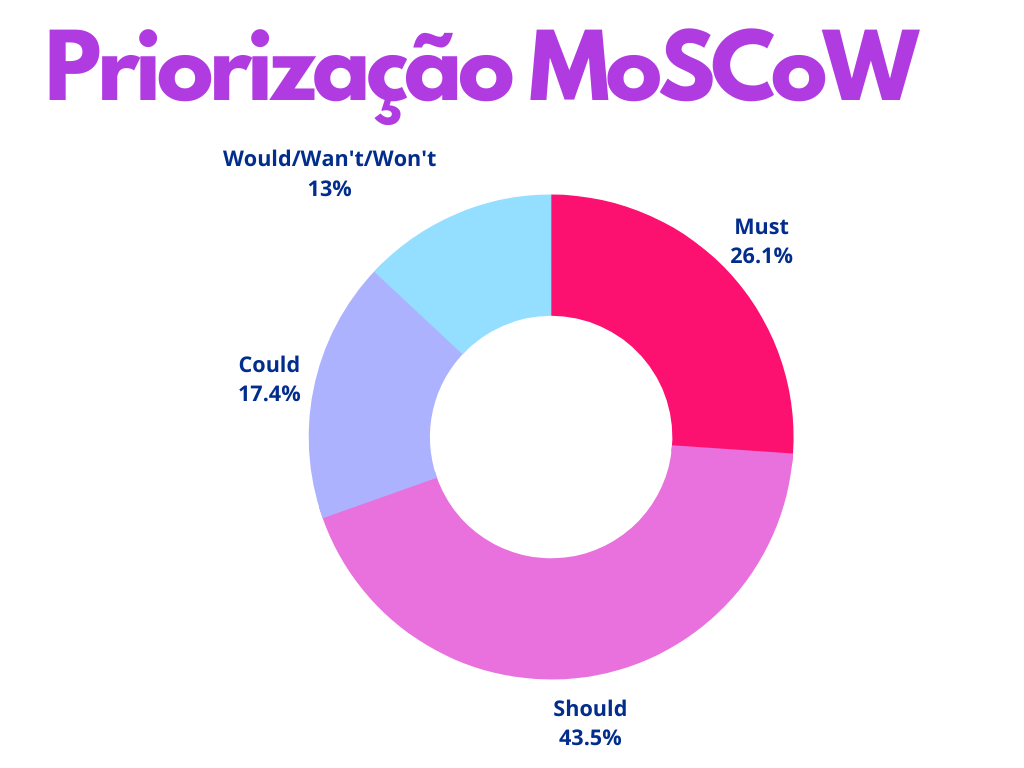
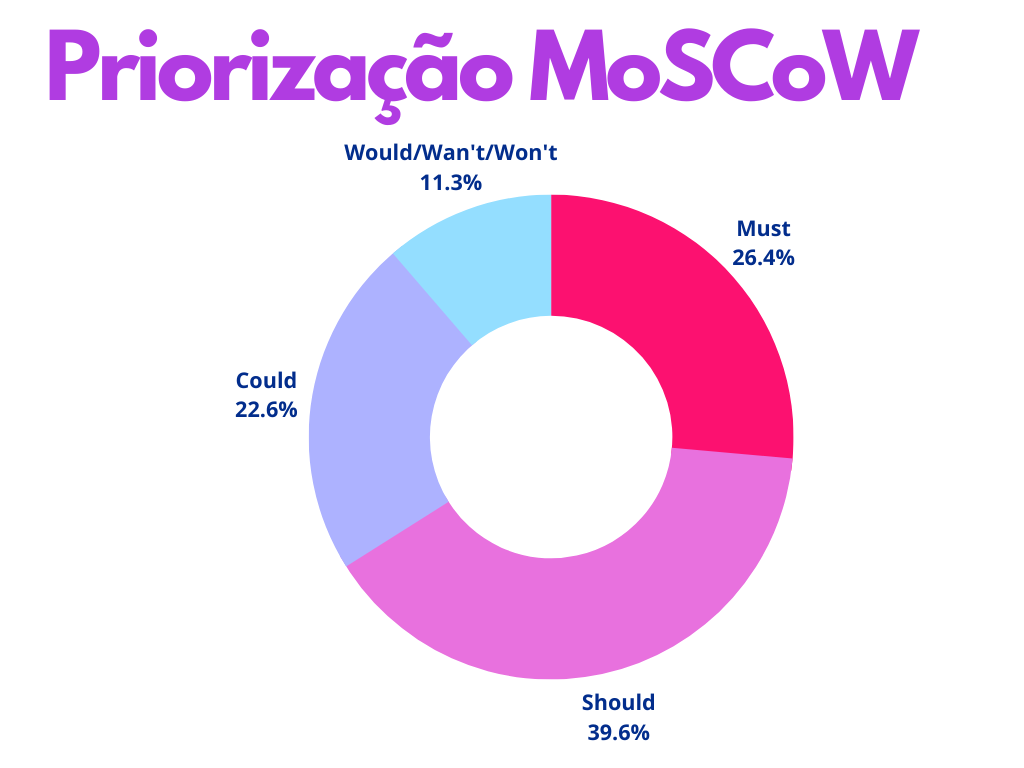
Adicionado priorização MoSCoW do Questionário e FURPS+

diff --git a/docs/pages/Base/ProjetoNaoOrientado/Requisistos/Elicitacao/FURPS+.md b/docs/pages/Base/ProjetoNaoOrientado/Requisistos/Elicitacao/FURPS+.md
@@ -23,29 +23,36 @@
 
 ## 3. Resultados
 
+**Legenda**
+
+- QT: Questionário
+- RF: Requisito Funcional
+- RNF: Requisito não Funcional
+- FU: FURPS+
+
 <center>
 
-| ID     |                                                                    Requisito                                                                     | MosCoW |
-| :----- | :----------------------------------------------------------------------------------------------------------------------------------------------: | :----: |
-| RNF 01 |                                                 O aplicativo não pode demorar mais de 2s para abrir ou Logar.                                    | Should |
-| RNF 02 |                                                    O aplicativo não pode ficar indisponível.                                                     |  Must  |
-| RNF 03 |                                   Os usuários devem conseguir encontrar a funcionalidade desejada rapidamente                                    | Should |
-| RNF 04 |                                                O aplicativo deve proteger os dados dos usuários.                                                 |  Must  |
-| RNF 05 |                                                O aplicativo deve apresentar persistência de login                                                | Could  |
-| RNF 06 |                                       O aplicativo deve acessar e persistir os dados em um banco de dados eficiente                              |  Must  |
-| RNF 07 |                                    O aplicativo deve ser capaz de realizar atualizações de versões periodicamente                                | should |
-| RNF 08 |                               O aplicativo deverá possuir um backend com a parte logica separada de sua interface                                | Should |
-| RNF 09 |                O aplicativo deverá possuir portabilidade para todos as plataformas mais atuais de Android, IOS e Navegadores Web                 | Could  |
-| RNF 10 |                         O aplicativo deverá possuir uma imagem conteinerizada para facil onboarding dos desenvolvedores                          | Would  |
-| RNF 11 | O deploy to sistema deverá ser feito em uma plataforma de servidores na nuvem com suas chaves de segurança armazenadas de forma segura e secreta | Would  |
-| RNF 12 |                             O aplicativo deverá possuir conexão com plataforma de envio de emails para confirmações                              | Could  |
-| RNF 13 |                                       O aplicativo deverá possuir uma cobertura de testes maior do que 70%                                       | Should |
-| RNF 14 |            O aplicativo deverá possuir documentação legivel e compreensivel sobre a instalação e as boas praticas de desenvolvimento             |  MUST  |
-| RNF 15 |                                 O aplicativo deverá possuir uma instância de testes e uma instancia de produçāo                                  | Could  |
-| RNF 16 |                                   O aplicativo deve ter uma interface coerente com padrão de cores e ícones.                                     | Should |
-| RNF 17 |     O aplicativo deve ser intuitivo e de fácil utilização. Com layouts semelhantes à aplicações de mídias sociais já estabelecidas .             | Could  |
-| RF 16  |        A capacidade de um usuário conectar nosso aplicativo aos seus contatos, selecionar seu amigo e enviar uma mensagem pré-preenchida.        | Would  |
-| RF 17  |           O usuário deve ser notificado de ações como horários de agendamentos, mensagens e conteúdos de profissionais favoritados.              | Could  |
+| ID     | Tipo de Requisito | Descrição |
+| :----: | :----: | :----: |
+| FU01 | RNF |                                                 O aplicativo não pode demorar mais de 2s para abrir ou Logar.                                    |
+| FU02 | RNF |                                                    O aplicativo não pode ficar indisponível.                                                     |
+| FU03 | RNF |                                     Os usuários devem conseguir encontrar a funcionalidade desejada rapidamente                                    |
+| FU04 | RNF |                                                O aplicativo deve proteger os dados dos usuários.                                                 |
+| FU05 | RNF |                                                O aplicativo deve apresentar persistência de login                                                |
+| FU06 | RNF |                                       O aplicativo deve acessar e persistir os dados em um banco de dados eficiente                              |
+| FU07 | RNF |                                    O aplicativo deve ser capaz de realizar atualizações de versões periodicamente                                |
+| FU08 | RNF |                               O aplicativo deverá possuir um backend com a parte logica separada de sua interface                                |
+| FU09 | RNF |                O aplicativo deverá possuir portabilidade para todos as plataformas mais atuais de Android, IOS e Navegadores Web                 |
+| FU10 | RNF |                         O aplicativo deverá possuir uma imagem conteinerizada para facil onboarding dos desenvolvedores                          |
+| FU11 | RNF | O deploy to sistema deverá ser feito em uma plataforma de servidores na nuvem com suas chaves de segurança armazenadas de forma segura e secreta |
+| FU12 | RNF |                             O aplicativo deverá possuir conexão com plataforma de envio de emails para confirmações                              |
+| FU13 | RNF |                                       O aplicativo deverá possuir uma cobertura de testes maior do que 70%                                       |
+| FU14 | RNF |            O aplicativo deverá possuir documentação legivel e compreensivel sobre a instalação e as boas praticas de desenvolvimento             |
+| FU15 | RNF |                                 O aplicativo deverá possuir uma instância de testes e uma instancia de produçāo                                  |
+| FU16 | RNF |                                   O aplicativo deve ter uma interface coerente com padrão de cores e ícones.                                     |
+| FU17 | RNF |     O aplicativo deve ser intuitivo e de fácil utilização. Com layouts semelhantes à aplicações de mídias sociais já estabelecidas .             |
+| FU18  | RF |        A capacidade de um usuário conectar nosso aplicativo aos seus contatos, selecionar seu amigo e enviar uma mensagem pré-preenchida.        |
+| FU19  | RF |           O usuário deve ser notificado de ações como horários de agendamentos, mensagens e conteúdos de profissionais favoritados.              |
 
 
 </center>
@@ -75,3 +82,4 @@
 | 1.1    | Adiçāo de RNFs                    | Fernando  |  Gustave e Daniel  |
 | 1.2    | Correção e revisão da v1.0 e v1.1 |  Gustave  |         -          |
 | 1.3    | Correção da v1.2 e adição RNF16, RNF17 e RF17 |  Adrian   |         -          |
+| 1.4    | Adicionado legenda e IDs para os requisitos |  Luis Gustavo   |         -          |

diff --git a/docs/pages/Base/ProjetoNaoOrientado/Requisistos/Priorizacao/Moscow.md b/docs/pages/Base/ProjetoNaoOrientado/Requisistos/Priorizacao/Moscow.md
@@ -23,12 +23,14 @@ A partir de técnicas de elicitação como: <a href="https://unbarqdsw2022-1.git
 
 ## 3. Resultados
 
-| Legenda | Significado             |     |
-| ------- | ----------------------- | --- |
-| BS      | Brainstorm              |     |
-| IN      | Introspecção            |     |
-| RF      | Requisitos Funcional    |     |
-| RFN     | Requisito não funcional |     |
+| Legenda | Significado             |
+| ------- | ----------------------- |
+| BS      | Brainstorm              |
+| IN      | Introspecção            |
+| QT      | Questionário            |
+| FU      | FURPS+                  |
+| RF      | Requisitos Funcional    |
+| RFN     | Requisito não funcional |
 
 | ID   | Descricão                                                                                 | Tipo de Requisito | Prioridade        |
 | ---- | ----------------------------------------------------------------------------------------- | ----------------- | ----------------- |
@@ -55,6 +57,36 @@ A partir de técnicas de elicitação como: <a href="https://unbarqdsw2022-1.git
 | IN07 | O usuário deve conseguir compartilhar seus objetivos/metas                                | RF                | Could             |
 | IN08 | A plataforma deve ter uma seção de destaque de conteúdo (serviços, exercícios, etc...)    | RF                | Would/Wan't/Won't |
 | IN09 | A plataforma deve permitir a adição de conteúdo em texto, fotos e vídeos                  | RF                | Must              |
+| QT01 | O software deve rodar prioritariamente em plataforma Mobile                                   | RNF               | Must
+| QT02 | O aplicativo deve mostrar o plano de exercícios                                               | RF                | Must
+| QT03 | O aplicativo deve ter uma base de dados de exercícios                                         | RF                | Must
+| QT04 | O aplicativo deve ter uma forma de _gamification_ para incentivar os consumidores de serviços | RNF               | Could
+| QT05 | O aplicativo deve disponibilizar plano de valores dos prestadores e de seus serviços          | RF                | Should
+| QT06 | O aplicativo deve disponibilizar perfil do profissional, com seu currículo                    | RF                | Should
+| QT07 | O aplicativo deve dispor de filtro por categoria de profissional                              | RF                | Should
+| QT08 | A aplicação deve permitir compartilhamento de video-aulas                                     | RF                | Could
+| QT09 | O usuário deve conseguir salvar e criar seus próprios planos de exercícios                    | RF                | Should
+| QT10 | O software deve permitir a filtragem de profissionais por região                              | RF                | Should
+| QT11 | A aplicação deve ser fácil de utilizar por usuários de diversas idades, inclusive idosos      | RNF               | Must
+| FU01 | O aplicativo não pode demorar mais de 2s para abrir ou Logar. | RNF | Should |
+| FU02 | O aplicativo não pode ficar indisponível. | RNF | Must |
+| FU03 | Os usuários devem conseguir encontrar a funcionalidade desejada rapidamente | RNF | Should |
+| FU04 | O aplicativo deve proteger os dados dos usuários. | RNF |  Must  |
+| FU05 | O aplicativo deve apresentar persistência de login | RNF | Could  |
+| FU06 | O aplicativo deve acessar e persistir os dados em um banco de dados eficiente | RNF |  Must  |
+| FU07 | O aplicativo deve ser capaz de realizar atualizações de versões periodicamente | RNF | Should |
+| FU08 | O aplicativo deverá possuir um backend com a parte logica separada de sua interface | RNF | Should |
+| FU09 | O aplicativo deverá possuir portabilidade para todos as plataformas mais atuais de Android, IOS e Navegadores Web | RNF | Could  |
+| FU10 | O aplicativo deverá possuir uma imagem conteinerizada para facil onboarding dos desenvolvedores | RNF | Would/Wan't/Won't  |
+| FU11 | O deploy to sistema deverá ser feito em uma plataforma de servidores na nuvem com suas chaves de segurança armazenadas de forma segura e secreta | RNF | Would/Wan't/Won't  |
+| FU12 | O aplicativo deverá possuir conexão com plataforma de envio de emails para confirmações | RNF | Could  |
+| FU13 | O aplicativo deverá possuir uma cobertura de testes maior do que 70% | RNF | Should |
+| FU14 | O aplicativo deverá possuir documentação legivel e compreensivel sobre a instalação e as boas praticas de desenvolvimento | RNF | Must |
+| FU15 | O aplicativo deverá possuir uma instância de testes e uma instancia de produçāo | RNF | Could  |
+| FU16 | O aplicativo deve ter uma interface coerente com padrão de cores e ícones. | RNF | Should |
+| FU17 | O aplicativo deve ser intuitivo e de fácil utilização. Com layouts semelhantes à aplicações de mídias sociais já estabelecidas. | RNF | Could  |
+| FU18  | A capacidade de um usuário conectar nosso aplicativo aos seus contatos, selecionar seu amigo e enviar uma mensagem pré-preenchida. | RF | Would/Wan't/Won't  |
+| FU19  | O usuário deve ser notificado de ações como horários de agendamentos, mensagens e conteúdos de profissionais favoritados. | RF | Could  |
 
 ## 4. Conclusão
 
@@ -77,3 +109,4 @@ Após feita a priorização, os resultados obtidos referente à porcetagem dos r
 | 1.1    | Adicionado requisitos com a referente priorização | Luis Gustavo     | ---         |
 | 1.2    | Revisão da priorização com pequenas alterações    | Luis Gustavo     | ---         |
 | 1.3    | Revisando Documento                               | Ricardo Loureiro | ---         |
+| 1.4    | Adição da priorização do requisitos de quesitonário e FURPS+ | Luis Gustavo | ---         |

diff --git a/docs/_sidebar.md b/docs/_sidebar.md
@@ -16,7 +16,7 @@
       - [Brainstorm](pages/Base/ProjetoNaoOrientado/Requisistos/Elicitacao/Brainstorm.md)
       - [Instrospecção](pages/Base/ProjetoNaoOrientado/Requisistos/Elicitacao/Introspeccao.md)
       - [Questionário](pages/Base/ProjetoNaoOrientado/Requisistos/Elicitacao/Questionario.md)
-      - [FURPS](pages/Base/ProjetoNaoOrientado/Requisistos/Elicitacao/FURPS+.md)
+      - [FURPS+](pages/Base/ProjetoNaoOrientado/Requisistos/Elicitacao/FURPS+.md)
     - **Modelagem**
       - [Léxicos](pages/Base/ProjetoNaoOrientado/Requisistos/Modelagem/Lexicos.md)
     - **Priorização**
